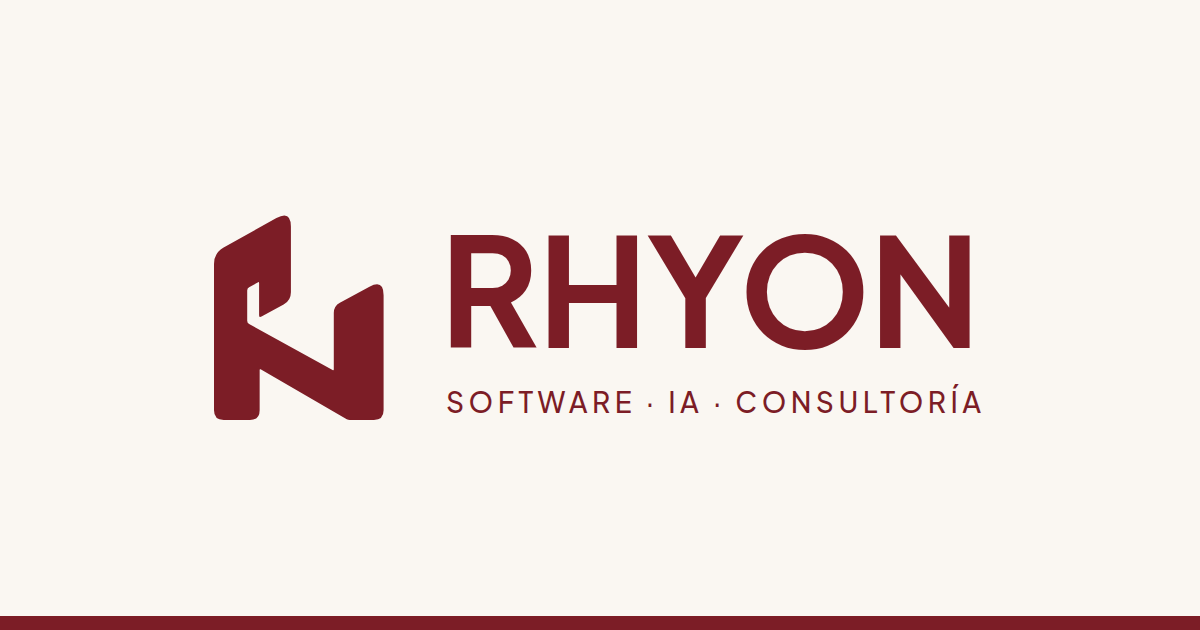
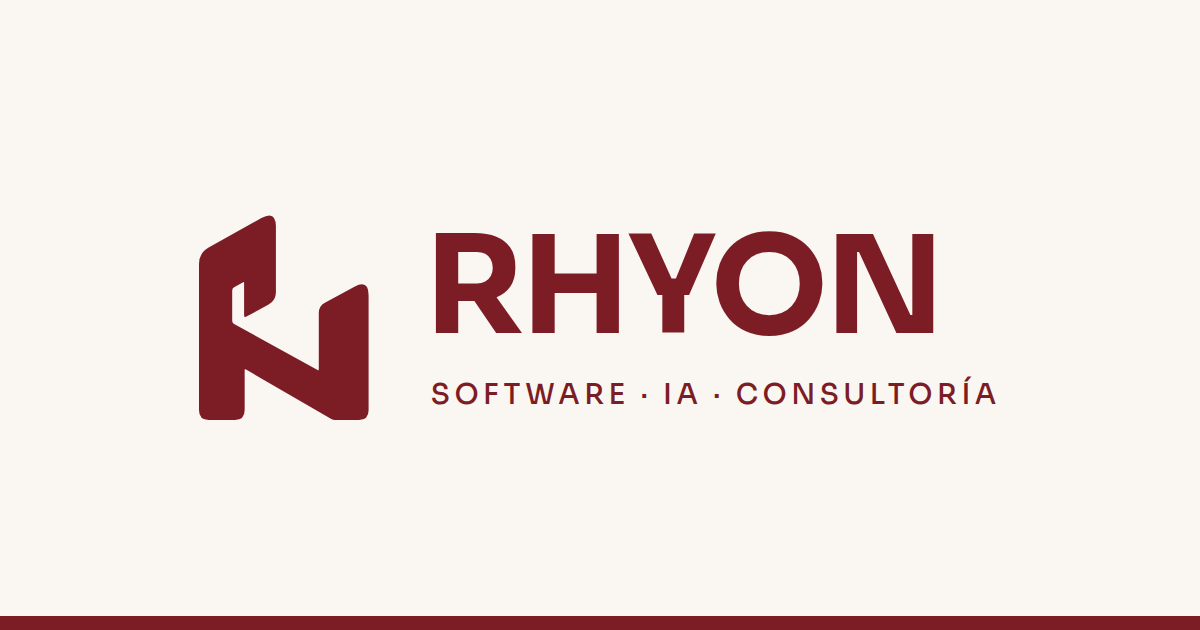
style: usar Sora como tipografía de títulos (#21)
* feat: agregar el logo de RHYON

Isotipo vectorizado en src/assets/isotipo.svg, usado en header y footer
a traves de Logo.astro junto al nombre. Favicon y og-image rehechos con
el isotipo. Se actualiza docs/placeholders.md.

Claude-Session: https://claude.ai/code/session_016mGK6EvMksBzV6Gz4baC93

* style: usar Sora como tipografia de titulos

Reemplaza Plus Jakarta Sans (provisoria) por Sora en --font-display. Sus
terminaciones rectas y su ancho acompañan la geometria del isotipo. Se
regenera la og-image y se sacan los avisos de tipografia provisoria.

Claude-Session: https://claude.ai/code/session_016mGK6EvMksBzV6Gz4baC93

---------

Changed region(s): [[0.1542, 0.3317, 0.8325, 0.6635], [0.6167, 0.6032, 0.8325, 0.6635], [0.555, 0.6032, 0.5858, 0.6635]]

diff --git a/src/styles/tokens.css b/src/styles/tokens.css
@@ -68,15 +68,14 @@
   /* ------------------------------------------------------------------------
      TIPOGRAFIA
      ------------------------------------------------------------------------
-     Plus Jakarta Sans para titulos, Inter para texto. Ambas se sirven desde el
-     propio dominio via @fontsource (ver global.css), no desde un CDN externo.
+     Sora para titulos, Inter para texto. Ambas se sirven desde el propio
+     dominio via @fontsource (ver global.css), no desde un CDN externo.
 
-     PROVISORIO: la marca usa una sans geometrica bold cuyo nombre falta
-     confirmar. Plus Jakarta Sans es la alternativa gratuita mas cercana; al
-     llegar la real, cambiar --font-display y su import en global.css. Ver
-     docs/placeholders.md.
+     Sora se eligio por sus terminaciones rectas y su ancho, que repiten la
+     geometria de bloques del isotipo. Es mas ancha que Inter: los titulos
+     ocupan mas lineas que el mismo texto en cuerpo.
      ---------------------------------------------------------------------- */
-  --font-display: 'Plus Jakarta Sans Variable', system-ui, -apple-system, sans-serif;
+  --font-display: 'Sora Variable', system-ui, -apple-system, sans-serif;
   --font-sans: 'Inter Variable', system-ui, -apple-system, sans-serif;
   --font-mono: ui-monospace, 'SF Mono', 'Cascadia Code', monospace;
 

diff --git a/src/styles/global.css b/src/styles/global.css
@@ -6,7 +6,7 @@
 
 /* Tipografias servidas desde nuestro propio dominio, no desde un CDN.
    Evita una conexion a terceros y el salto de fuente al cargar. */
-@import '@fontsource-variable/plus-jakarta-sans';
+@import '@fontsource-variable/sora';
 @import '@fontsource-variable/inter';
 
 @import './tokens.css';

diff --git a/docs/placeholders.md b/docs/placeholders.md
@@ -1,8 +1,8 @@
 # Guía de placeholders
 
 Lo que está en producción de forma provisoria hasta que llegue lo definitivo:
-la identidad de marca (logo, tipografía, colores), los datos de contacto, el
-producto propio y las imágenes.
+los colores de marca, los datos de contacto, el producto propio y las
+imágenes.
 
 **El seguimiento está en los issues de GitHub:** cada pendiente tiene uno, con
 los pasos para reemplazarlo. Este archivo es la referencia rápida de qué se usa
@@ -18,7 +18,6 @@ El sitio usa aproximaciones tomadas del Instagram
 
 | Falta | Issue | Qué se usa mientras tanto | Dónde vive |
 | --- | --- | --- | --- |
-| **Tipografía** de títulos | [#13](https://github.com/rhyon-team/rhyon-team.github.io/issues/13) | Plus Jakarta Sans, la sans geométrica gratuita más parecida | `--font-display` en `tokens.css` y su `@import` en `global.css`, `og-image.png` |
 | **Hex del rojo** | [#14](https://github.com/rhyon-team/rhyon-team.github.io/issues/14) | `#7c1d26`; la imagen del logo usa `#a12030`, más vivo | `--color-brand-800` y la rampa `brand-*` en `tokens.css`, `site.themeColor`, `favicon.svg`, `og-image.png` |
 | **Hex del fondo oscuro** | [#14](https://github.com/rhyon-team/rhyon-team.github.io/issues/14) | `sand-950` (`#1a1613`) como `surface-inverse` | `--color-sand-950` o `--surface-inverse` en `global.css` |
 
@@ -44,9 +43,9 @@ El mensaje que se abre ya escrito en WhatsApp está en
 
 ## Imágenes
 
-Las dos ya llevan el logo, pero con el rojo y la tipografía provisorios: se
-regeneran al cerrar [#13](https://github.com/rhyon-team/rhyon-team.github.io/issues/13)
-y [#14](https://github.com/rhyon-team/rhyon-team.github.io/issues/14).
+Las dos ya llevan el logo y la tipografía definitiva, pero con el rojo
+provisorio: se regeneran al cerrar
+[#14](https://github.com/rhyon-team/rhyon-team.github.io/issues/14).
 
 | Archivo | Dónde se usa | Formato | Contenido actual |
 | --- | --- | --- | --- |

diff --git a/CLAUDE.md b/CLAUDE.md
@@ -34,10 +34,10 @@ nunca animación que retrase la lectura.
 El color de marca es el **rojo Torino** (`brand-800`, `#7c1d26`). Se usa con
 moderación: acentos y acciones, no superficies grandes.
 
-**La identidad de marca es provisoria.** Falta el logo, la tipografía y los hex
-exactos; mientras tanto se usan aproximaciones. Antes de tocar color,
-tipografía, logo o imágenes, leer `docs/placeholders.md`: dice qué falta, qué
-se usa en su lugar y dónde se cambia.
+**Los colores de marca son provisorios.** Faltan los hex exactos; mientras
+tanto se usan aproximaciones. Antes de tocar color o imágenes, leer
+`docs/placeholders.md`: dice qué falta, qué se usa en su lugar y dónde se
+cambia.
 
 **El backlog vive en los issues de GitHub.** Cada pendiente tiene un issue con
 sus pasos; el PR que lo resuelve lleva `Closes #N` en la descripción.
@@ -64,7 +64,7 @@ sus pasos; el PR que lo resuelve lleva `Closes #N` en la descripción.
 | `src/components/layout/` | Header, Footer, MobileNav              |
 | `src/lib/site.ts`     | Nombre, contacto, navegación, redes           |
 | `/styleguide`         | Referencia viva del sistema de diseño         |
-| `docs/placeholders.md` | Identidad, contacto e imágenes provisorias |
+| `docs/placeholders.md` | Colores, contacto e imágenes provisorias |
 
 Los datos que se repiten entre páginas van en `src/lib/site.ts`, nunca
 escritos en el markup.

diff --git a/README.md b/README.md
@@ -101,8 +101,8 @@ puede forzarse con `data-theme="dark"` en `<html>`. El sitio nace en claro.
 
 ### Tipografía
 
-- **Plus Jakarta Sans** para títulos — sans geométrica, **provisoria** hasta confirmar
-  la tipografía de la marca (ver [docs/placeholders.md](./docs/placeholders.md)).
+- **Sora** para títulos — sans geométrica y ancha, con terminaciones rectas que
+  acompañan al isotipo.
 - **Inter** para texto — legible en tamaños chicos y párrafos largos.
 
 Ambas se sirven desde el propio dominio vía `@fontsource`, no desde un CDN

diff --git a/.claude/rules/diseno.md b/.claude/rules/diseno.md
@@ -91,7 +91,7 @@ espaciado queda declarado en el contenedor y no disperso en cada hijo.
 
 ## Tipografía
 
-`font-display` (Plus Jakarta Sans, provisoria) para títulos, `font-sans` (Inter) para el resto. No
+`font-display` (Sora) para títulos, `font-sans` (Inter) para el resto. No
 mezclar.
 
 Los tamaños de título salen de la escala `text-display-*` vía el componente
